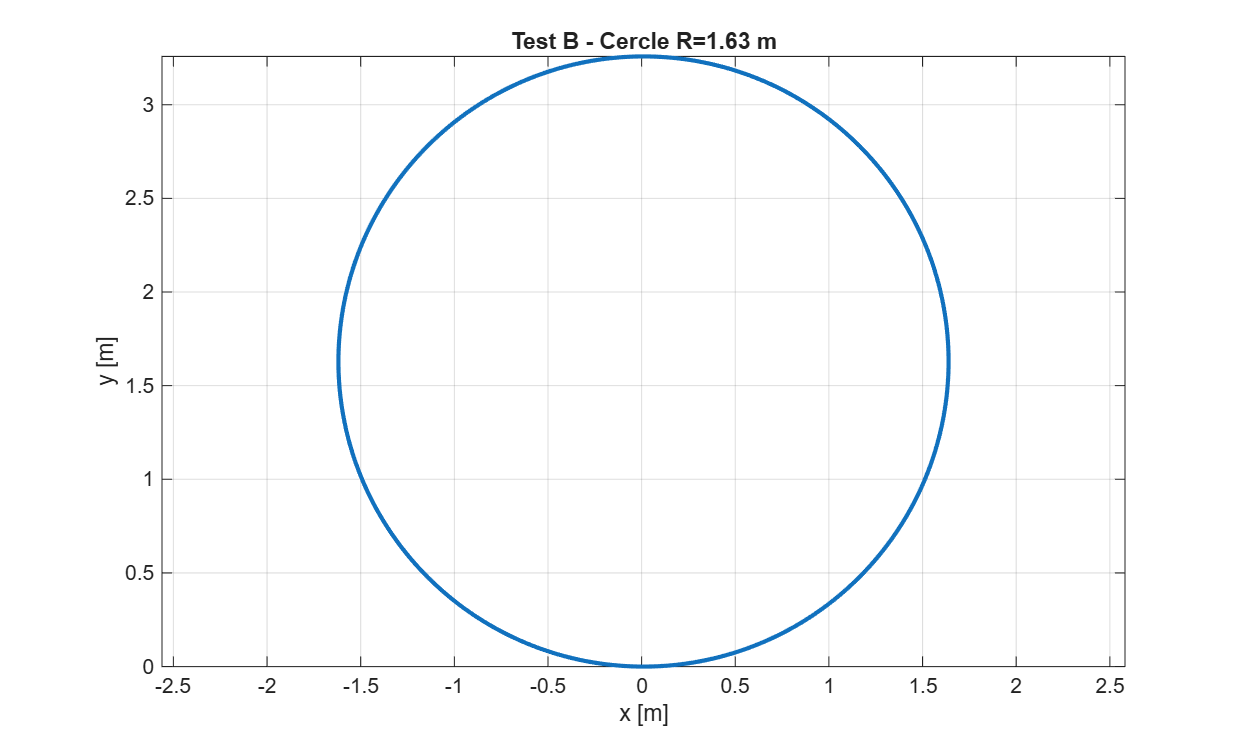
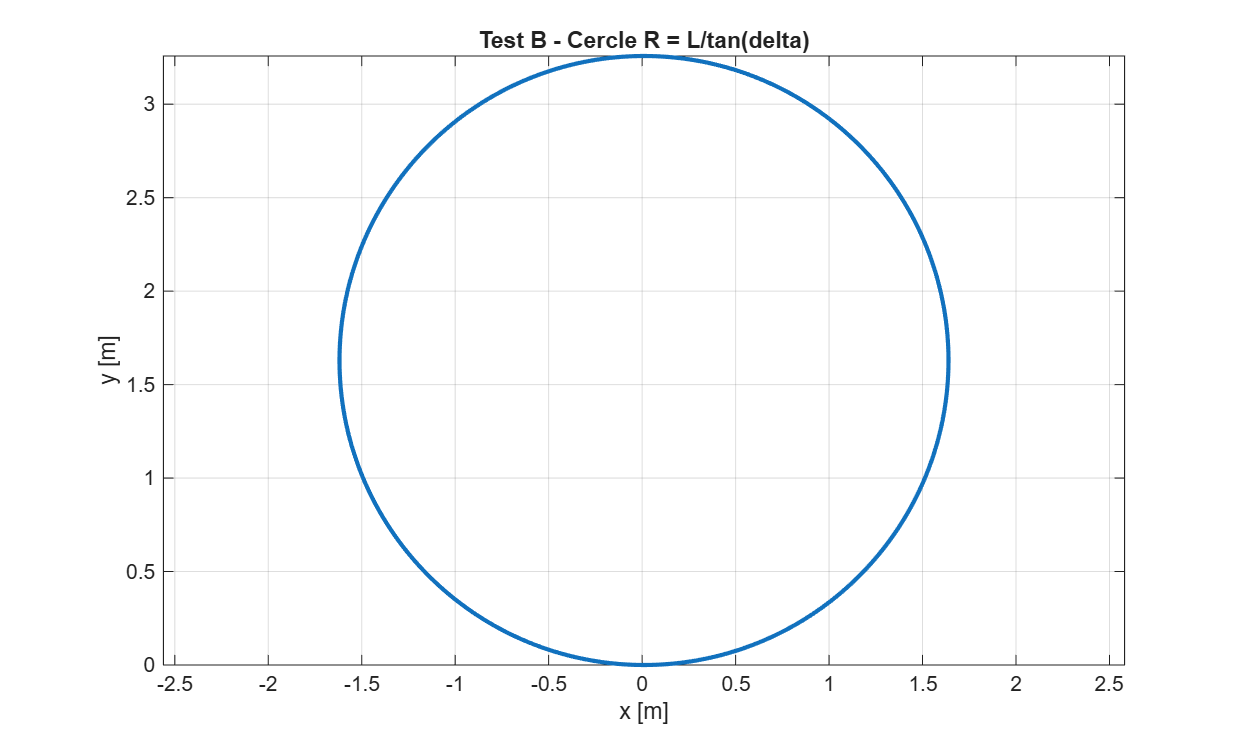
ajout chemin 3 - s

diff --git a/main.m b/main.m
@@ -30,4 +30,49 @@ figure(2); plot(traj2(:,1), traj2(:,2),'LineWidth',2); axis equal; grid on;
 title(sprintf('Test B - Cercle R=%.2f m', R_theo));
 xlabel('x [m]'); ylabel('y [m]');
 saveas(gcf,'resultats/test_cercle.png');
-fprintf('Test B OK - Travail 1 termine !\n');
+fprintf('Test B OK - Travail 1 termine !\n');% main.m - Travail 1 complet
+clc; clear; close all;
+L = 0.3302; dt = 0.01; t_final = 10; N = t_final/dt;
+
+%% Test A - ligne droite
+v = 2; delta = 0;
+x=0; y=0; psi=0; traj = zeros(N,2);
+for k=1:N
+    x = x + v*cos(psi)*dt;
+    y = y + v*sin(psi)*dt;
+    traj(k,:) = [x y];
+end
+figure(1); plot(traj(:,1), traj(:,2),'LineWidth',2); axis equal; grid on;
+title('Test A - Ligne droite'); xlabel('x [m]'); ylabel('y [m]');
+saveas(gcf,'resultats/test_droite.png');
+fprintf('Test A OK - y final = %.4f\n', traj(end,2));
+
+%% Test B - cercle R = L/tan(delta)
+v = 2; delta = 0.2;
+x=0; y=0; psi=0; traj = zeros(N,2);
+for k=1:N
+    x = x + v*cos(psi)*dt;
+    y = y + v*sin(psi)*dt;
+    psi = psi + (v/L)*tan(delta)*dt;
+    traj(k,:) = [x y];
+end
+figure(2); plot(traj(:,1), traj(:,2),'LineWidth',2); axis equal; grid on;
+title('Test B - Cercle R = L/tan(delta)'); xlabel('x [m]'); ylabel('y [m]');
+saveas(gcf,'resultats/test_cercle.png');
+fprintf('Test B OK - travail 1 termine 1-v2 \n');
+
+%% Test C - chemin en S / Sinusoide - LE TROISIEME CHEMIN
+v = 2; delta_max = 0.3;
+x=0; y=0; psi=0; traj = zeros(N,2);
+for k=1:N
+    t = k*dt;
+    delta = delta_max * sin(0.5*t);
+    x = x + v*cos(psi)*dt;
+    y = y + v*sin(psi)*dt;
+    psi = psi + (v/L)*tan(delta)*dt;
+    traj(k,:) = [x y];
+end
+figure(3); plot(traj(:,1), traj(:,2),'LineWidth',2); axis equal; grid on;
+title('Test C - Chemin en S'); xlabel('x [m]'); ylabel('y [m]');
+saveas(gcf,'resultats/test_sinusoide.png');
+fprintf('Test C OK - S termine\n');
